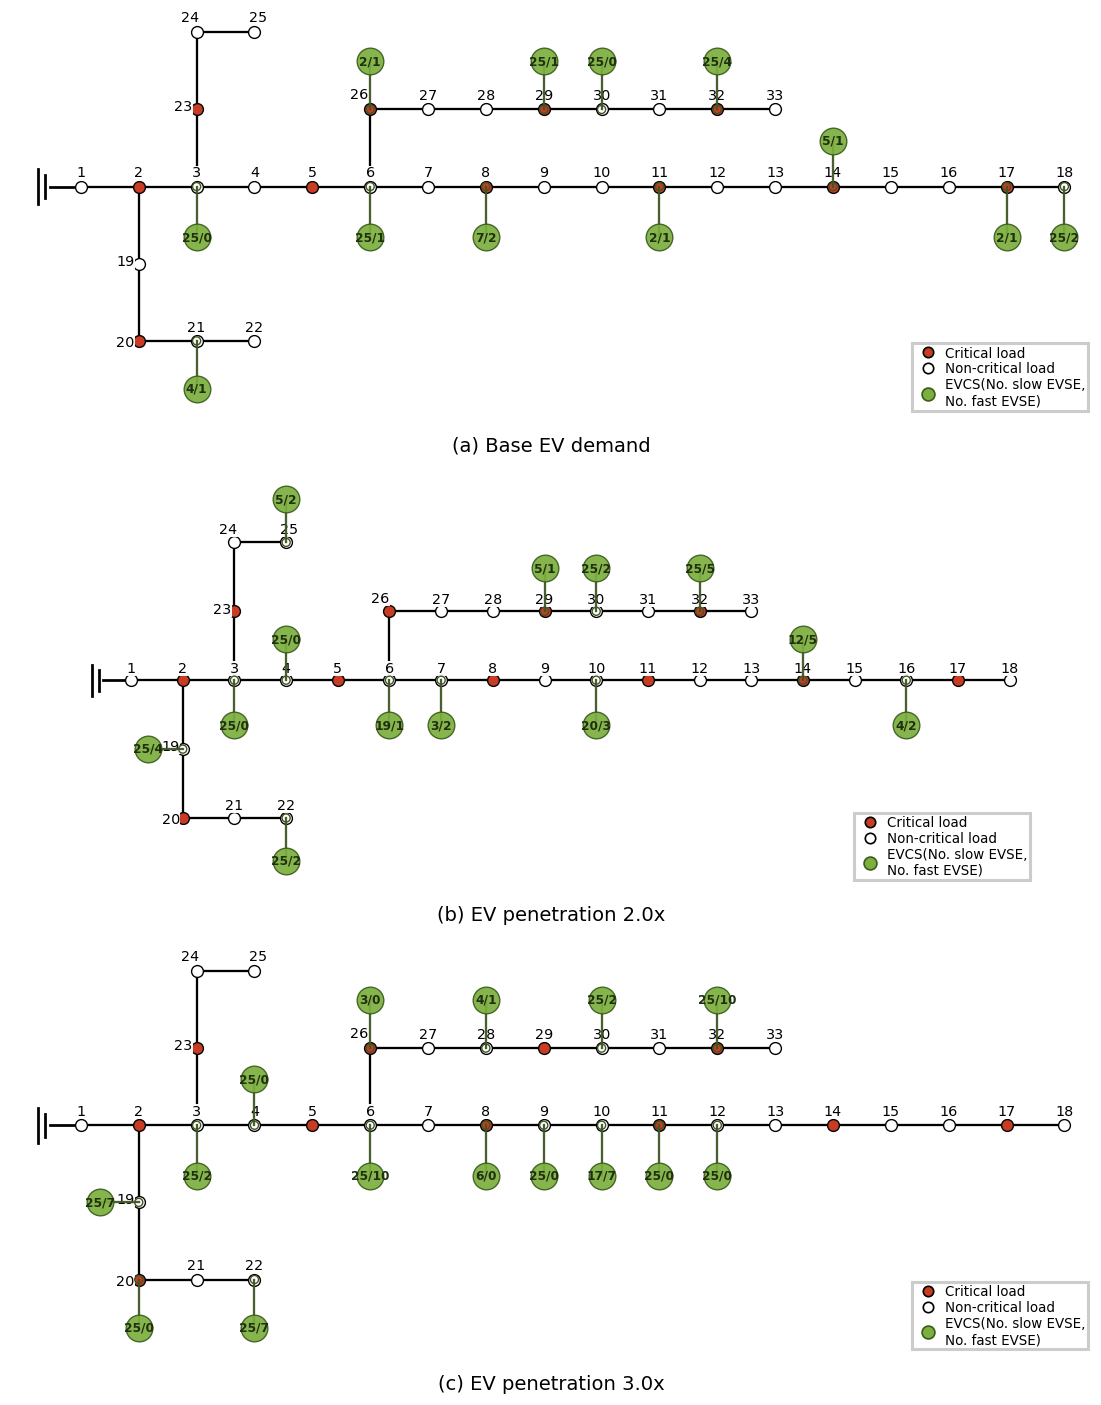
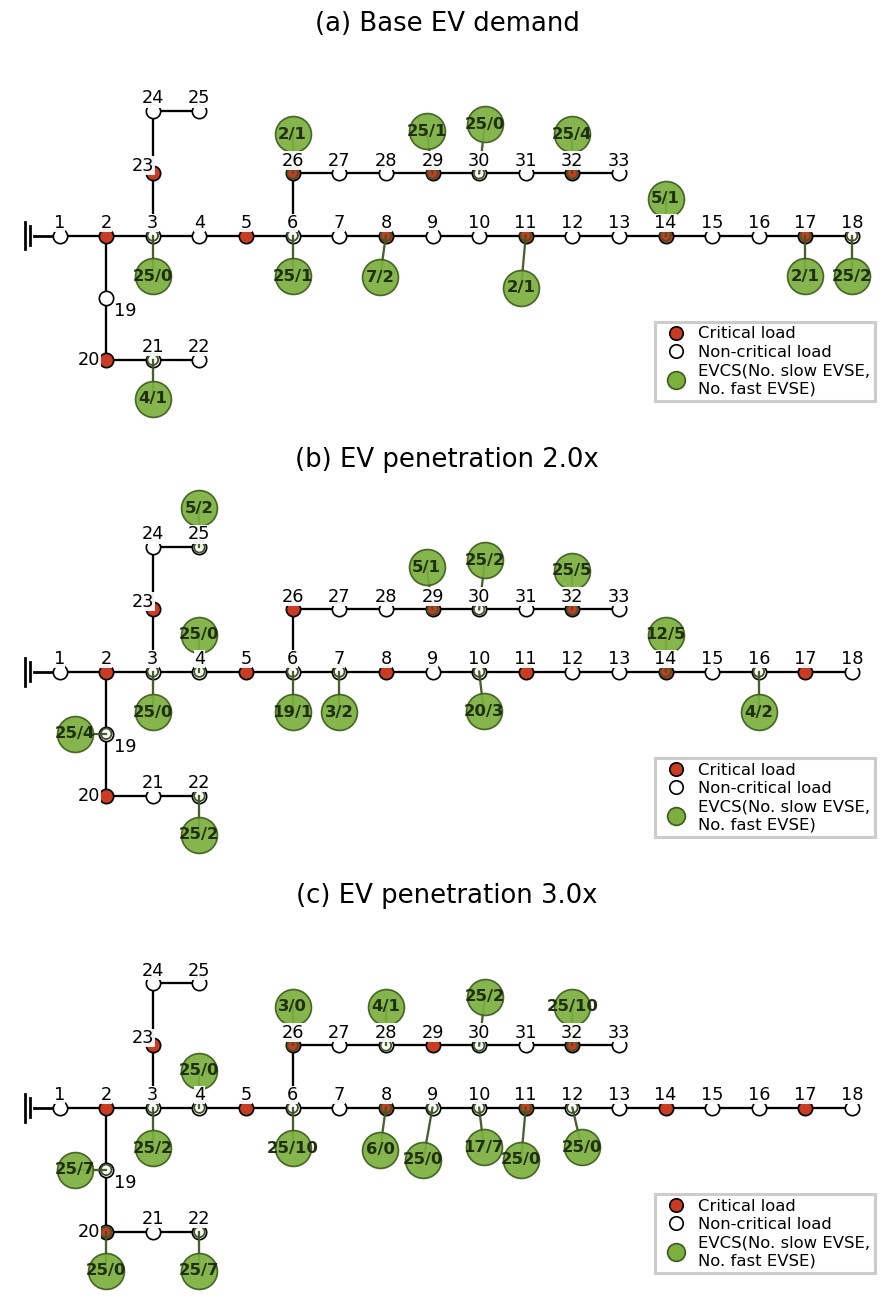
paper: preserve topology style while fixing overlaps

diff --git a/scripts/make_experiment_figures.py b/scripts/make_experiment_figures.py
@@ -122,11 +122,11 @@ IEEE33_BUBBLE_OFFSETS = {
     5: (0.0, -1.05),
     6: (0.0, -1.05),
     7: (0.0, -1.05),
-    8: (0.0, -1.05),
-    9: (0.0, -1.05),
-    10: (0.0, -1.05),
-    11: (0.0, -1.05),
-    12: (0.0, -1.05),
+    8: (-0.15, -1.08),
+    9: (-0.24, -1.34),
+    10: (0.12, -1.02),
+    11: (-0.12, -1.34),
+    12: (0.24, -1.02),
     13: (0.0, -1.05),
     14: (0.0, 0.95),
     15: (0.0, -1.05),
@@ -143,30 +143,21 @@ IEEE33_BUBBLE_OFFSETS = {
     26: (0.0, 1.0),
     27: (0.0, 1.0),
     28: (0.0, 1.0),
-    29: (0.0, 1.0),
-    30: (0.0, 1.0),
+    29: (-0.15, 1.08),
+    30: (0.15, 1.26),
     31: (0.0, 1.0),
     32: (0.0, 1.0),
     33: (0.0, 1.0),
 }
 
 IEEE33_LABEL_OFFSETS = {
-    19: (-0.28, 0.05),
-    20: (-0.28, -0.04),
-    21: (0.0, 0.28),
-    22: (0.0, 0.28),
-    23: (-0.28, 0.05),
-    24: (-0.14, 0.3),
-    25: (0.08, 0.3),
-    26: (-0.22, 0.3),
-    27: (0.0, 0.28),
-    28: (0.0, 0.28),
-    29: (0.0, 0.28),
-    30: (0.0, 0.28),
-    31: (0.0, 0.28),
-    32: (0.0, 0.28),
-    33: (0.0, 0.28),
+    19: (0.5, -0.35),
+    20: (-0.44, 0.0),
+    23: (-0.24, 0.2),
 }
+
+IEEE33_PANEL_XLIM = (-1.25, 21.2)
+IEEE33_PANEL_YLIM = (-4.9, 4.95)
 
 PAPER_STYLE_PANEL_TITLES = {
     "integrated_mainline_paper_like": "(a) Case 1: Proposed model",
@@ -208,10 +199,10 @@ def _plot_paper_style_panel(axis, run_id: str, plan_lookup: dict[str, Path]) -> 
     installed_rows = [
         row for row in plan_rows if int(row["is_open"]) == 1
     ]
-    panel_title = PAPER_STYLE_PANEL_TITLES.get(run_id, run_id)
 
     axis.set_aspect("equal")
     axis.axis("off")
+    axis.set_title(PAPER_STYLE_PANEL_TITLES.get(run_id, run_id), fontsize=8.5, pad=4)
 
     for left, right in IEEE33_EDGES:
         x1, y1 = IEEE33_POSITIONS[left]
@@ -229,35 +220,35 @@ def _plot_paper_style_panel(axis, run_id: str, plan_lookup: dict[str, Path]) -> 
         axis.scatter(
             critical_x,
             critical_y,
-            s=15,
+            s=22,
             facecolors="#c83c23",
             edgecolors="black",
-            linewidths=0.45,
+            linewidths=0.55,
             zorder=3,
         )
     if noncritical_x:
         axis.scatter(
             noncritical_x,
             noncritical_y,
-            s=15,
+            s=22,
             facecolors="white",
             edgecolors="black",
-            linewidths=0.45,
+            linewidths=0.55,
             zorder=2,
         )
 
     for bus in buses:
         x, y = IEEE33_POSITIONS[bus]
-        dx, dy = IEEE33_LABEL_OFFSETS.get(bus, (0.0, 0.28))
+        dx, dy = IEEE33_LABEL_OFFSETS.get(bus, (0.0, 0.33))
         axis.text(
             x + dx,
             y + dy,
             str(bus),
             ha="center",
             va="center",
-            fontsize=4.7,
-            zorder=4,
-            bbox={"facecolor": "white", "edgecolor": "none", "pad": 0.12, "alpha": 0.96},
+            fontsize=5.8,
+            zorder=7,
+            bbox={"facecolor": "white", "edgecolor": "none", "pad": 0.08, "alpha": 0.94},
         )
 
     bubble_points: list[tuple[float, float]] = []
@@ -279,19 +270,19 @@ def _plot_paper_style_panel(axis, run_id: str, plan_lookup: dict[str, Path]) -> 
         axis.scatter(
             [x],
             [y],
-            s=7,
+            s=12,
             facecolors="none",
             edgecolors="#3f5523",
-            linewidths=0.45,
+            linewidths=0.6,
             zorder=4.5,
         )
         axis.scatter(
             [bx],
             [by],
-            s=76,
+            s=138,
             facecolors="#7caf3e",
             edgecolors="#3a5d1c",
-            linewidths=0.45,
+            linewidths=0.55,
             alpha=0.92,
             zorder=5,
         )
@@ -302,16 +293,14 @@ def _plot_paper_style_panel(axis, run_id: str, plan_lookup: dict[str, Path]) -> 
             f"{slow}/{fast}",
             ha="center",
             va="center",
-            fontsize=4.0,
+            fontsize=5.4,
             fontweight="bold",
             color="#1f2f0f",
             zorder=6,
         )
 
-    x_values = [point[0] for point in IEEE33_POSITIONS.values()] + [point[0] for point in bubble_points] + [-0.9]
-    y_values = [point[1] for point in IEEE33_POSITIONS.values()] + [point[1] for point in bubble_points] + [-0.42, 0.42]
-    axis.set_xlim(min(x_values) - 0.55, max(x_values) + 0.55)
-    axis.set_ylim(min(y_values) - 0.52, max(y_values) + 0.45)
+    axis.set_xlim(*IEEE33_PANEL_XLIM)
+    axis.set_ylim(*IEEE33_PANEL_YLIM)
     legend_handles = [
         Line2D(
             [0],
@@ -321,7 +310,7 @@ def _plot_paper_style_panel(axis, run_id: str, plan_lookup: dict[str, Path]) -> 
             markerfacecolor="#c83c23",
             markeredgecolor="black",
             markeredgewidth=0.55,
-            markersize=3.4,
+            markersize=4.4,
             label="Critical load",
         ),
         Line2D(
@@ -332,7 +321,7 @@ def _plot_paper_style_panel(axis, run_id: str, plan_lookup: dict[str, Path]) -> 
             markerfacecolor="white",
             markeredgecolor="black",
             markeredgewidth=0.55,
-            markersize=3.4,
+            markersize=4.4,
             label="Non-critical load",
         ),
         Line2D(
@@ -343,31 +332,22 @@ def _plot_paper_style_panel(axis, run_id: str, plan_lookup: dict[str, Path]) -> 
             markerfacecolor="#7caf3e",
             markeredgecolor="#3a5d1c",
             markeredgewidth=0.55,
-            markersize=4.2,
+            markersize=5.8,
             label="EVCS(No. slow EVSE,\nNo. fast EVSE)",
         ),
     ]
     axis.legend(
         handles=legend_handles,
         loc="lower right",
-        fontsize=4.4,
+        bbox_to_anchor=(0.995, 0.055),
+        fontsize=5.4,
         frameon=True,
         fancybox=False,
         framealpha=1.0,
-        borderpad=0.2,
-        handletextpad=0.22,
-        labelspacing=0.14,
+        borderpad=0.28,
+        handletextpad=0.35,
+        labelspacing=0.22,
         borderaxespad=0.25,
-    )
-    axis.text(
-        0.5,
-        -0.055,
-        panel_title,
-        transform=axis.transAxes,
-        ha="center",
-        va="top",
-        fontsize=6.4,
-        clip_on=False,
     )
 
 
@@ -490,7 +470,7 @@ def _plot_plan_maps(
 
     nrows = (len(selected) + ncols - 1) // ncols
     if ncols == 1:
-        figsize = (7.2, 2.08 * nrows + 0.2)
+        figsize = (7.2, 1.95 * nrows + 0.12)
     else:
         figsize = (7.3, 2.1 * nrows)
     fig, axes = plt.subplots(
@@ -505,7 +485,7 @@ def _plot_plan_maps(
     for axis, run_id in zip(axes.flatten(), selected):
         _plot_paper_style_panel(axis, run_id, plan_lookup)
 
-    fig.tight_layout(rect=(0.005, 0.012, 0.995, 0.995), pad=0.2, h_pad=0.9)
+    fig.tight_layout(rect=(0.005, 0.005, 0.995, 0.995), pad=0.22, h_pad=0.7)
     fig.savefig(path, dpi=220, bbox_inches="tight", pad_inches=0.05)
     plt.close(fig)
 
